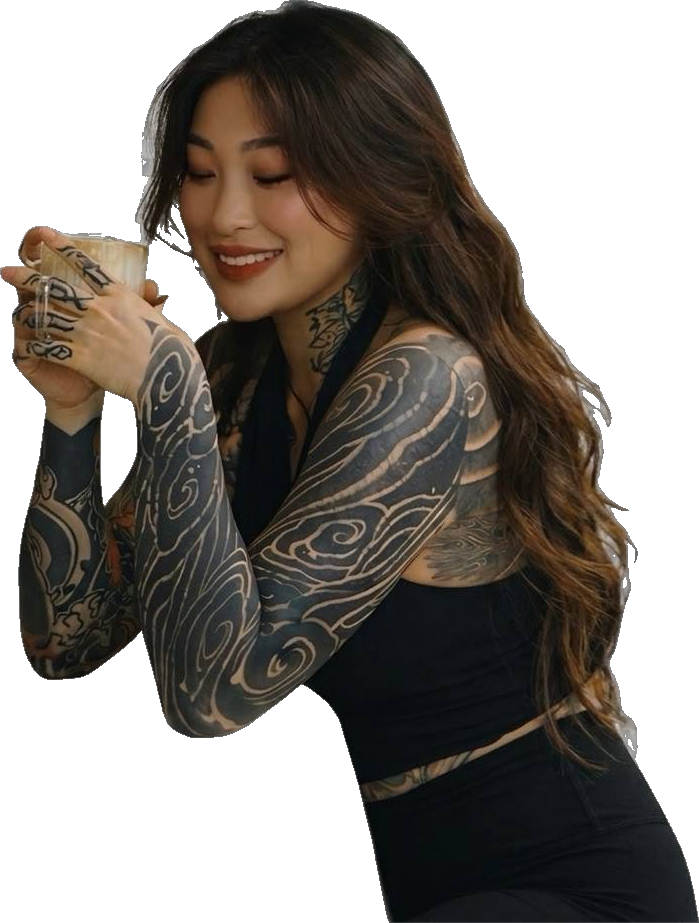
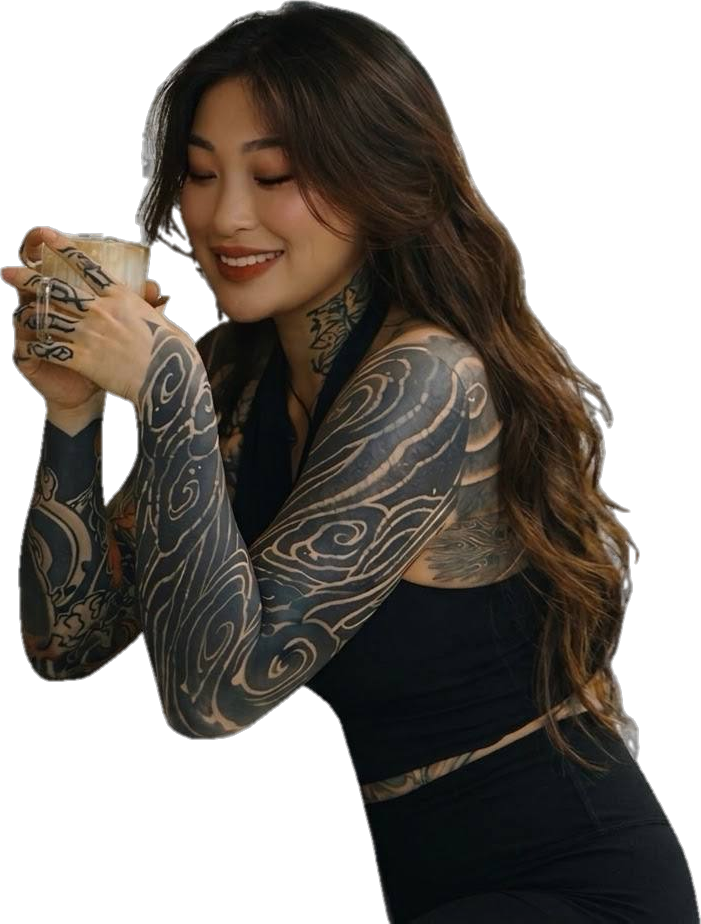
Refined portrait mattes: defringe + gaussian feather
Edge pixels borrow color from the nearest subject interior (no
backdrop fringe), and the silhouette gets a soft 2px feathered
alpha so cutouts melt into the black instead of reading as cut.

diff --git a/index.html b/index.html
@@ -15,7 +15,7 @@
   <link href="https://fonts.googleapis.com/css2?family=Chakra+Petch:wght@400;500;700&display=swap" rel="stylesheet">
   <link href="https://api.fontshare.com/v2/css?f[]=general-sans@400,500&display=swap" rel="stylesheet">
   <link href="https://fonts.googleapis.com/css2?family=Space+Grotesk:wght@300;400;500;600&family=JetBrains+Mono:wght@400;500&family=Onest:wght@600&display=swap" rel="stylesheet">
-  <link rel="stylesheet" href="css/style.css?v=59">
+  <link rel="stylesheet" href="css/style.css?v=60">
 </head>
 <body>
 
@@ -352,7 +352,7 @@
   <script src="https://cdn.jsdelivr.net/npm/gsap@3.12.5/dist/gsap.min.js"></script>
   <script src="https://cdn.jsdelivr.net/npm/gsap@3.12.5/dist/ScrollTrigger.min.js"></script>
   <script src="https://cdn.jsdelivr.net/npm/lenis@1.1.13/dist/lenis.min.js"></script>
-  <script src="js/main.js?v=59"></script>
+  <script src="js/main.js?v=60"></script>
 </body>
 </html>
 
